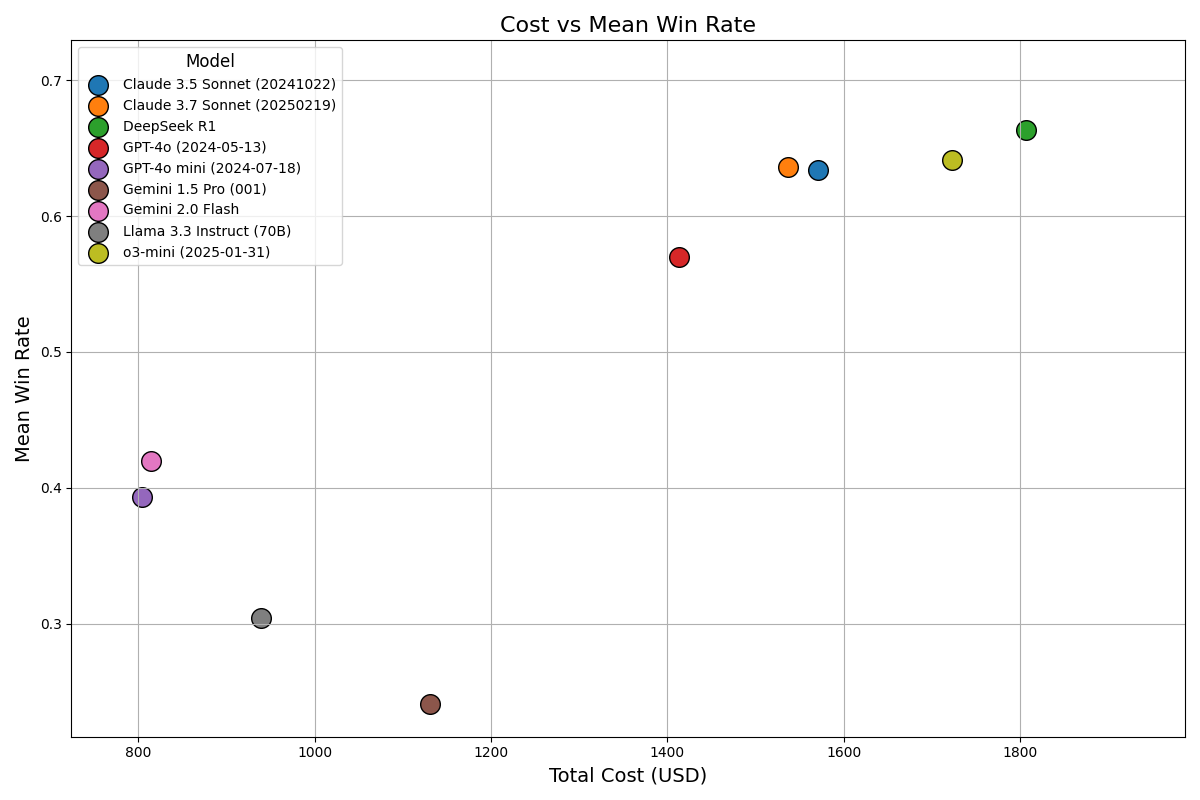
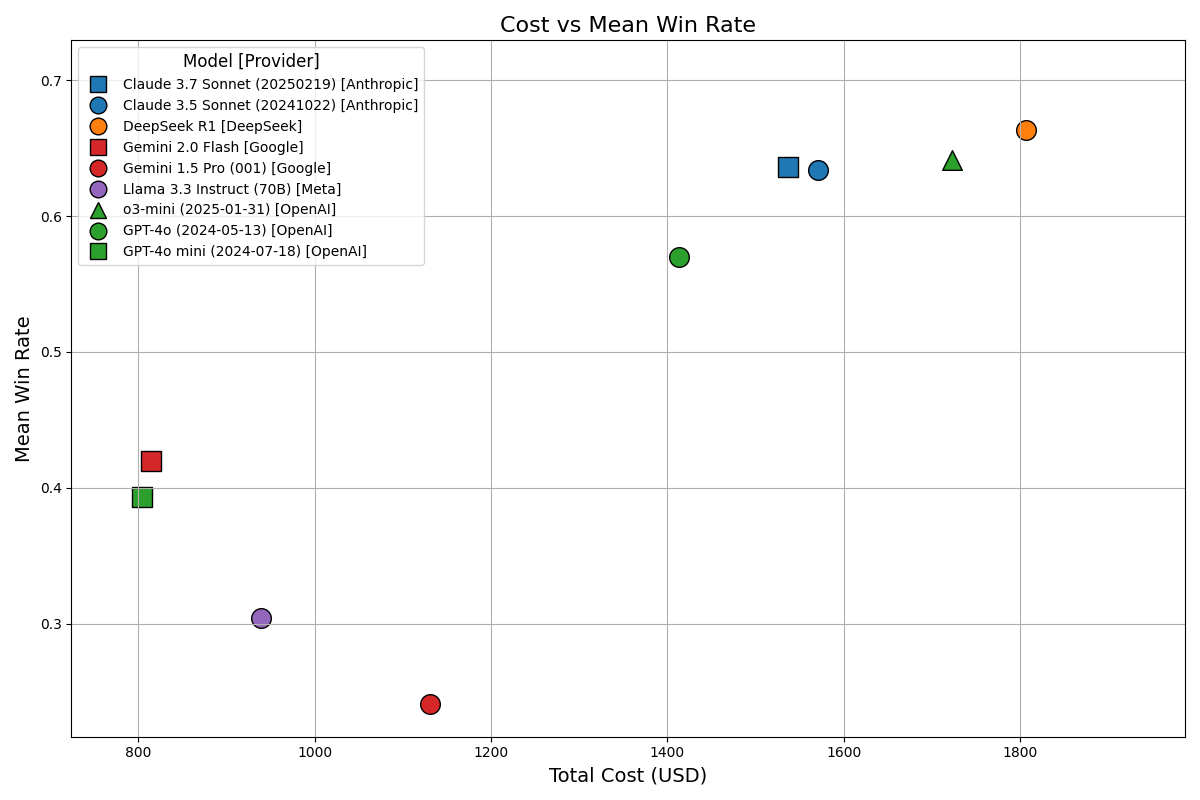
Updated cost plots

diff --git a/src/medhelm/plots/plot_costs.py b/src/medhelm/plots/plot_costs.py
@@ -2,7 +2,7 @@ import argparse
 import pandas as pd
 import matplotlib.pyplot as plt
 
-from medhelm.utils.constants import BENCHMARKS, BENCHMARK_NAME_MAPPING,  MODEL_NAME_MAPPING
+from medhelm.utils.constants import BENCHMARKS, BENCHMARK_NAME_MAPPING, MODEL_NAME_MAPPING
 
 
 def main(
@@ -44,21 +44,74 @@ def main(
         'Mean Win Rate': mean_win_rate
     }).dropna()
 
-    print(merged_data)
-
-    colors = plt.cm.tab10(range(len(merged_data)))
-    merged_data['Color'] = [colors[i] for i in range(len(merged_data))]
+    # Define provider for each model
+    provider_mapping = {
+        "Claude 3.5 Sonnet (20241022)": "Anthropic",
+        "Claude 3.7 Sonnet (20250219)": "Anthropic",
+        "Gemini 1.5 Pro (001)": "Google",
+        "Gemini 2.0 Flash": "Google",
+        "GPT-4o (2024-05-13)": "OpenAI",
+        "GPT-4o mini (2024-07-18)": "OpenAI",
+        "o3-mini (2025-01-31)": "OpenAI",
+        "Llama 3.3 Instruct (70B)": "Meta",
+        "DeepSeek R1": "DeepSeek"
+    }
+    
+    # Add provider information to the dataframe
+    merged_data['Provider'] = merged_data.index.map(provider_mapping)
+    
+    # Get unique providers
+    providers = merged_data['Provider'].unique()
+    
+    # Assign base colors from tab10 to each provider
+    provider_colors = {}
+    tab10_colors = plt.cm.tab10.colors
+    for i, provider in enumerate(providers):
+        provider_colors[provider] = tab10_colors[i % len(tab10_colors)]
+    
+    # Assign colors to models based on their provider
+    merged_data['Color'] = merged_data['Provider'].map(provider_colors)
+    
+    # Define marker shapes to distinguish models from the same provider
+    # Available markers: 'o', 's', '^', 'D', 'v', '<', '>', 'p', '*', 'h', 'H', '+', 'x', 'd', '|', '_'
+    marker_styles = ['o', 's', '^', 'D', 'v', '<', '>', 'p', '*', 'h']
+    
+    # Assign marker shapes to models
+    model_markers = {}
+    for provider in providers:
+        provider_models = merged_data[merged_data['Provider'] == provider].index.tolist()
+        
+        # Assign different marker shapes to models from the same provider
+        for j, model in enumerate(provider_models):
+            model_markers[model] = marker_styles[j % len(marker_styles)]
+    
+    # Add marker information to the dataframe
+    merged_data['Marker'] = merged_data.index.map(model_markers)
 
     plt.figure(figsize=(12, 8))
-    for i, (model, row) in enumerate(merged_data.iterrows()):
+    
+    # Create custom handles for the legend, sorted by provider
+    from matplotlib.lines import Line2D
+    legend_elements = []
+    
+    # First, sort the dataframe by provider to group models from the same provider
+    sorted_data = merged_data.sort_values(by=['Provider', 'Mean Win Rate'], ascending=[True, False])
+    
+    # Plot each point with its assigned color and marker
+    for model, row in sorted_data.iterrows():
         plt.scatter(
             row['Aggregated Cost'], 
             row['Mean Win Rate'], 
-            color=row['Color'], 
+            color=row['Color'],
+            marker=row['Marker'],
             edgecolors='black', 
             s=200,
-            label=model  # Label for traditional legend
+            label=model
         )
+        legend_elements.append(Line2D([0], [0], marker=row['Marker'], color='w', 
+                                      markerfacecolor=row['Color'],
+                                      markeredgecolor='black', markersize=12, 
+                                      label=f"{model} [{row['Provider']}]"))
 
     title = 'Cost vs Mean Win Rate'
     if category:
@@ -67,7 +120,10 @@ def main(
     plt.xlabel('Total Cost (USD)', fontsize=14)
     plt.ylabel('Mean Win Rate', fontsize=14)
     plt.grid(True)
-    plt.legend(title="Model", fontsize=10, title_fontsize=12, loc='best')  # Traditional legend
+    
+    # Use custom legend elements
+    plt.legend(handles=legend_elements, title="Model [Provider]", fontsize=10, title_fontsize=12, loc='best')
+    
     plt.tight_layout()
 
     plt.xlim(merged_data['Aggregated Cost'].min() * 0.9, merged_data['Aggregated Cost'].max() * 1.1)
